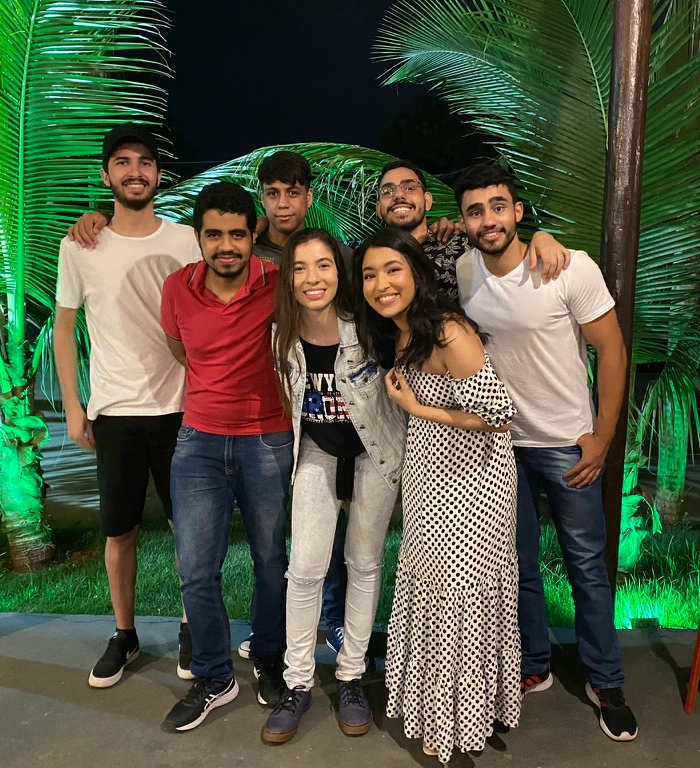
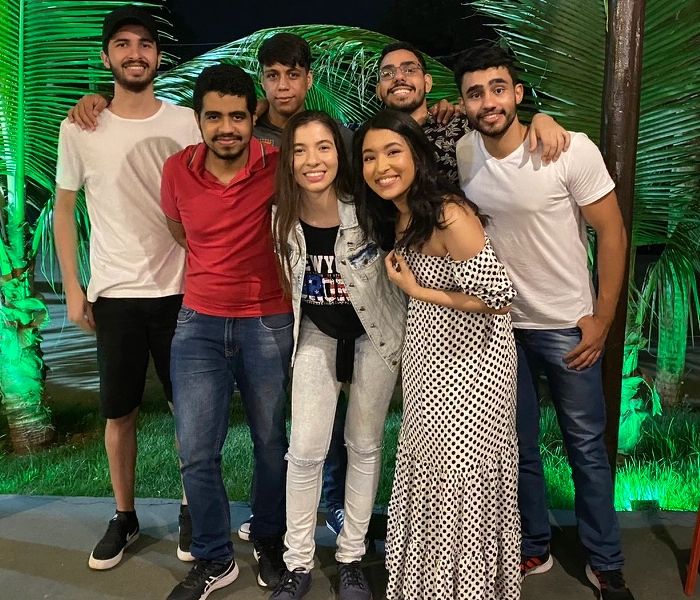
fix-images

diff --git a/pages/index.js b/pages/index.js
@@ -91,21 +91,12 @@ export default function Home() {
         pauseOnHover
       />
       <div className="min-h-screen">
-        <div className="relative h-full bg-gray-darkest overflow-hidden">
+        <div className="relative h-screen bg-gray-darkest overflow-hidden">
           <div className="mx-auto xl:h-screen">
-            <div className="relative z-10 pb-8 bg-gray-darkest sm:pb-16 md:pb-20 lg:max-w-2xl lg:w-full lg:pb-28 xl:pb-32">
+            <div className="relative z-10 pb-8 lg:h-screen bg-gray-darkest sm:pb-16 md:pb-20 lg:max-w-2xl lg:w-full lg:pb-28 xl:pb-32">
               <Navbar />
-              <svg
-                className="hidden lg:block absolute right-0 inset-y-0 h-full w-48 text-white transform translate-x-1/2"
-                fill="#1a1b1d"
-                viewBox="0 0 100 100"
-                preserveAspectRatio="none"
-                aria-hidden="true"
-              >
-                <polygon points="50,0 100,0 50,100 0,100" />
-              </svg>
 
-              <main className="mt-10 mx-auto max-w-7xl px-4 sm:mt-12 sm:px-6 md:mt-16 lg:mt-20 lg:px-8 xl:mt-28">
+              <main className="mt-2 mx-auto max-w-7xl px-4 sm:mt-12 sm:px-6 md:mt-16 lg:mt-20 lg:px-8 xl:mt-28">
                 <div className="sm:text-center lg:text-left">
                   <h1 className="text-4xl tracking-tight font-extrabold text-gray-200 sm:text-5xl md:text-6xl">
                     <span className="block xl:inline">A better way to</span>{' '}
@@ -118,7 +109,7 @@ export default function Home() {
                     <br /> Or maybe you need a programmer to work in your team?
                     <br /> You are on right path.
                   </p>
-                  <div className="mt-10 sm:mt-12 sm:w-10/12">
+                  <div className="mt-10 mx-auto lg:mx-0 sm:mt-12 sm:w-10/12">
                     <Formik
                       initialValues={{ email: '' }}
                       validationSchema={sendMailValidation}
@@ -164,9 +155,9 @@ export default function Home() {
               </main>
             </div>
           </div>
-          <div className="lg:absolute lg:inset-y-0 lg:right-0 lg:w-1/2">
+          <div className="flex-grow z-20 lg:absolute lg:inset-y-0 lg:right-0 lg:w-1/2">
             <img
-              className="h-56 w-full object-cover sm:h-72 md:h-96 lg:w-full lg:h-full"
+              className="h-full w-full object-cover object-top lg:w-full lg:h-full"
               src="/images/team/lecode.WebP"
               alt="lecode-team"
             />

diff --git a/components/Navbar/index.js b/components/Navbar/index.js
@@ -10,7 +10,7 @@ const navigation = [
 ]
 export default function Navbar() {
   return (
-    <nav className="bg-gray-darkest">
+    <nav className="bg-gray-darkest z-10">
       <Popover>
         {({ open }) => (
           <>
@@ -64,14 +64,14 @@ export default function Navbar() {
               <Popover.Panel
                 focus
                 static
-                className="absolute bg-gray-dark  top-0 inset-x-0 p-2 transition transform origin-top-right md:hidden"
+                className="absolute bg-gray-dark z-10 top-0 inset-x-0 p-2 transition transform origin-top-right md:hidden"
               >
                 <div className="rounded-lg shadow-md bg-gray-dark ring-1 ring-black ring-opacity-5 overflow-hidden">
                   <div className="px-5 pt-4 flex items-center justify-between">
                     <div>
                       <img
                         className="h-14 w-auto"
-                        src="/images/lecode.png"
+                        src="/images/lecode.WebP"
                         alt=""
                       />
                     </div>

diff --git a/components/AboutUsSection/index.js b/components/AboutUsSection/index.js
@@ -43,7 +43,7 @@ export default function AboutUsSection() {
         <div className="relative pb-32 ">
           <div className="absolute inset-0">
             <img
-              className="w-full h-full object-cover opacity-5"
+              className="w-full h-full object-scale-down object-center opacity-5"
               src="/images/lecodeBlackWhite.png"
               alt="lecode"
             />
